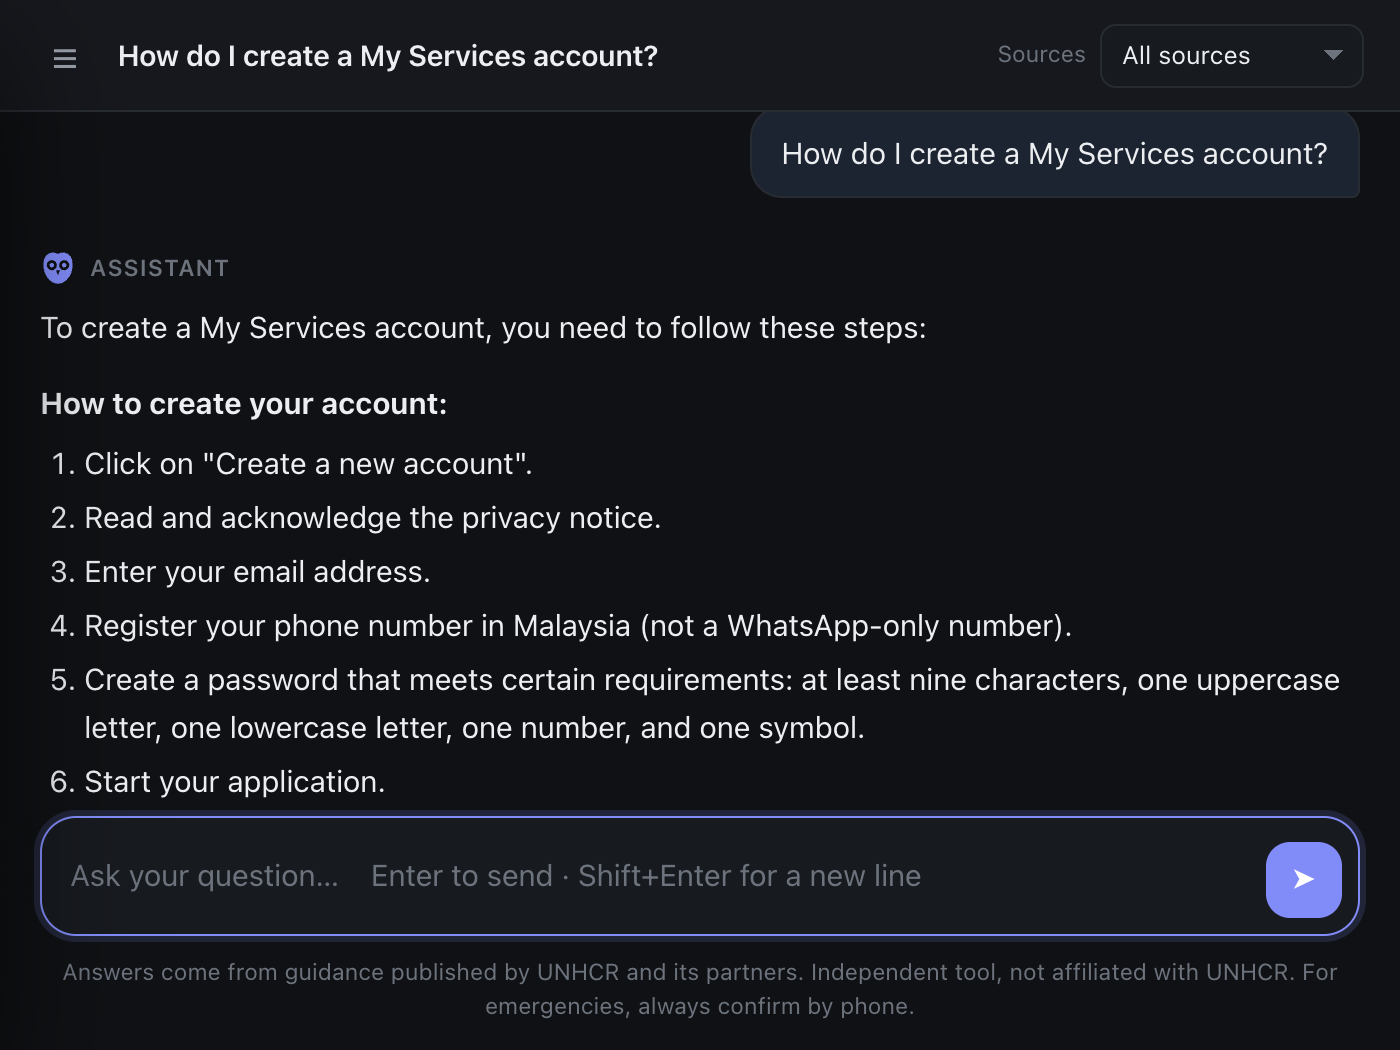
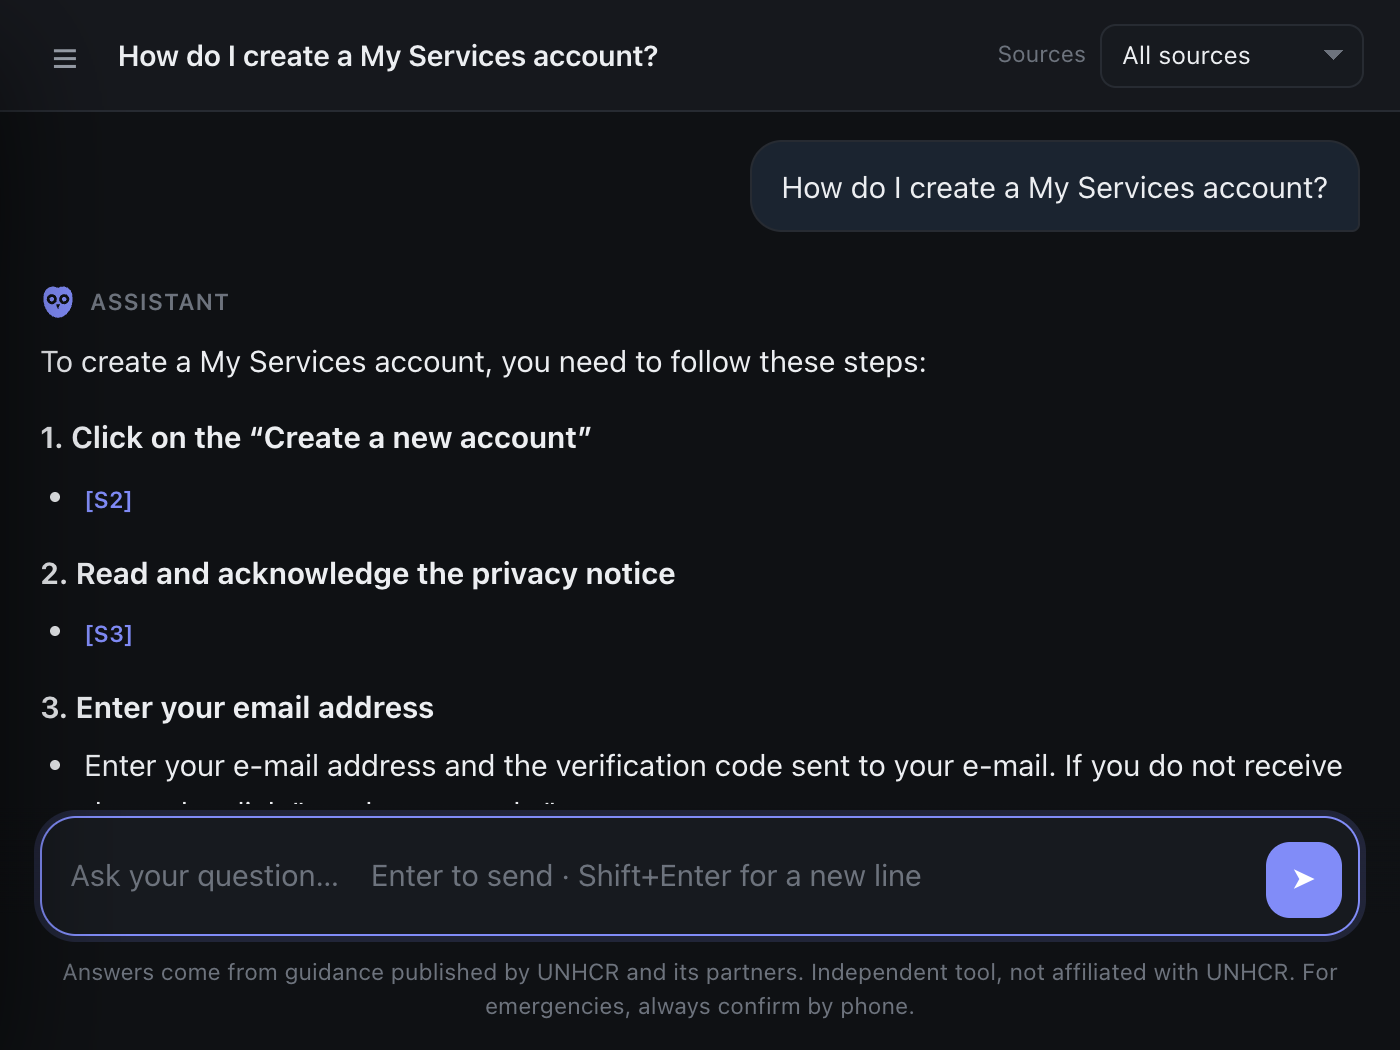
Show answers that say where to go, with live UNHCR links
The sources screenshot now features the Where to go list and current
help.unhcr.org source cards instead of the partner-briefing citation.

diff --git a/README.md b/README.md
@@ -23,17 +23,18 @@ answer is shown.
 Asked about the My Services portal, it answers from the archive, step by step —
 offline, on the local model:
 
-<img src="docs/screenshots/04-ask-myservices.png" alt="Asked how to create a My Services account, the assistant lists the six steps from the archived guidance: create the account, acknowledge the privacy notice, enter an email address, register a Malaysian phone number that is not WhatsApp-only, set a password of at least nine characters, start the application" width="820">
+<img src="docs/screenshots/04-ask-myservices.png" alt="Asked how to create a My Services account, the assistant answers in numbered steps from the archived guidance — the privacy notice, the email verification code, a Malaysian phone number that is not WhatsApp-only — each step carrying its source citation" width="820">
 
 Asked what REMEDI costs, the answer carries the exact premiums — and says the
 child rate is a promotion, because the source says so:
 
 <img src="docs/screenshots/05-ask-remedi.png" alt="Asked what REMEDI is and how much it costs, the assistant explains the refugee medical insurance and gives the premiums: RM 150.00 for a child during the promotion, RM 183.60 after it closes, RM 183.60 per year for an adult" width="820">
 
-Every answer ends in the pages it came from. Here the price came from a partner
-briefing, with a warning that the public site may not show it yet:
+And every answer says where to go. The steps end in a **Where to go** list —
+the live help.unhcr.org pages themselves, linked in the answer and again on
+the source cards below it, every one badged current:
 
-<img src="docs/screenshots/06-sources.png" alt="The end of the REMEDI answer: an inline S1 citation, then a source card marked current, with a link to check the UNHCR page" width="820">
+<img src="docs/screenshots/06-sources.png" alt="The end of the My Services answer: a Where to go list linking the live Not Registered Start Your Application page and the My Services Portal page, each with its citation tag, followed by source cards badged current" width="820">
 
 ## What it knows
 
